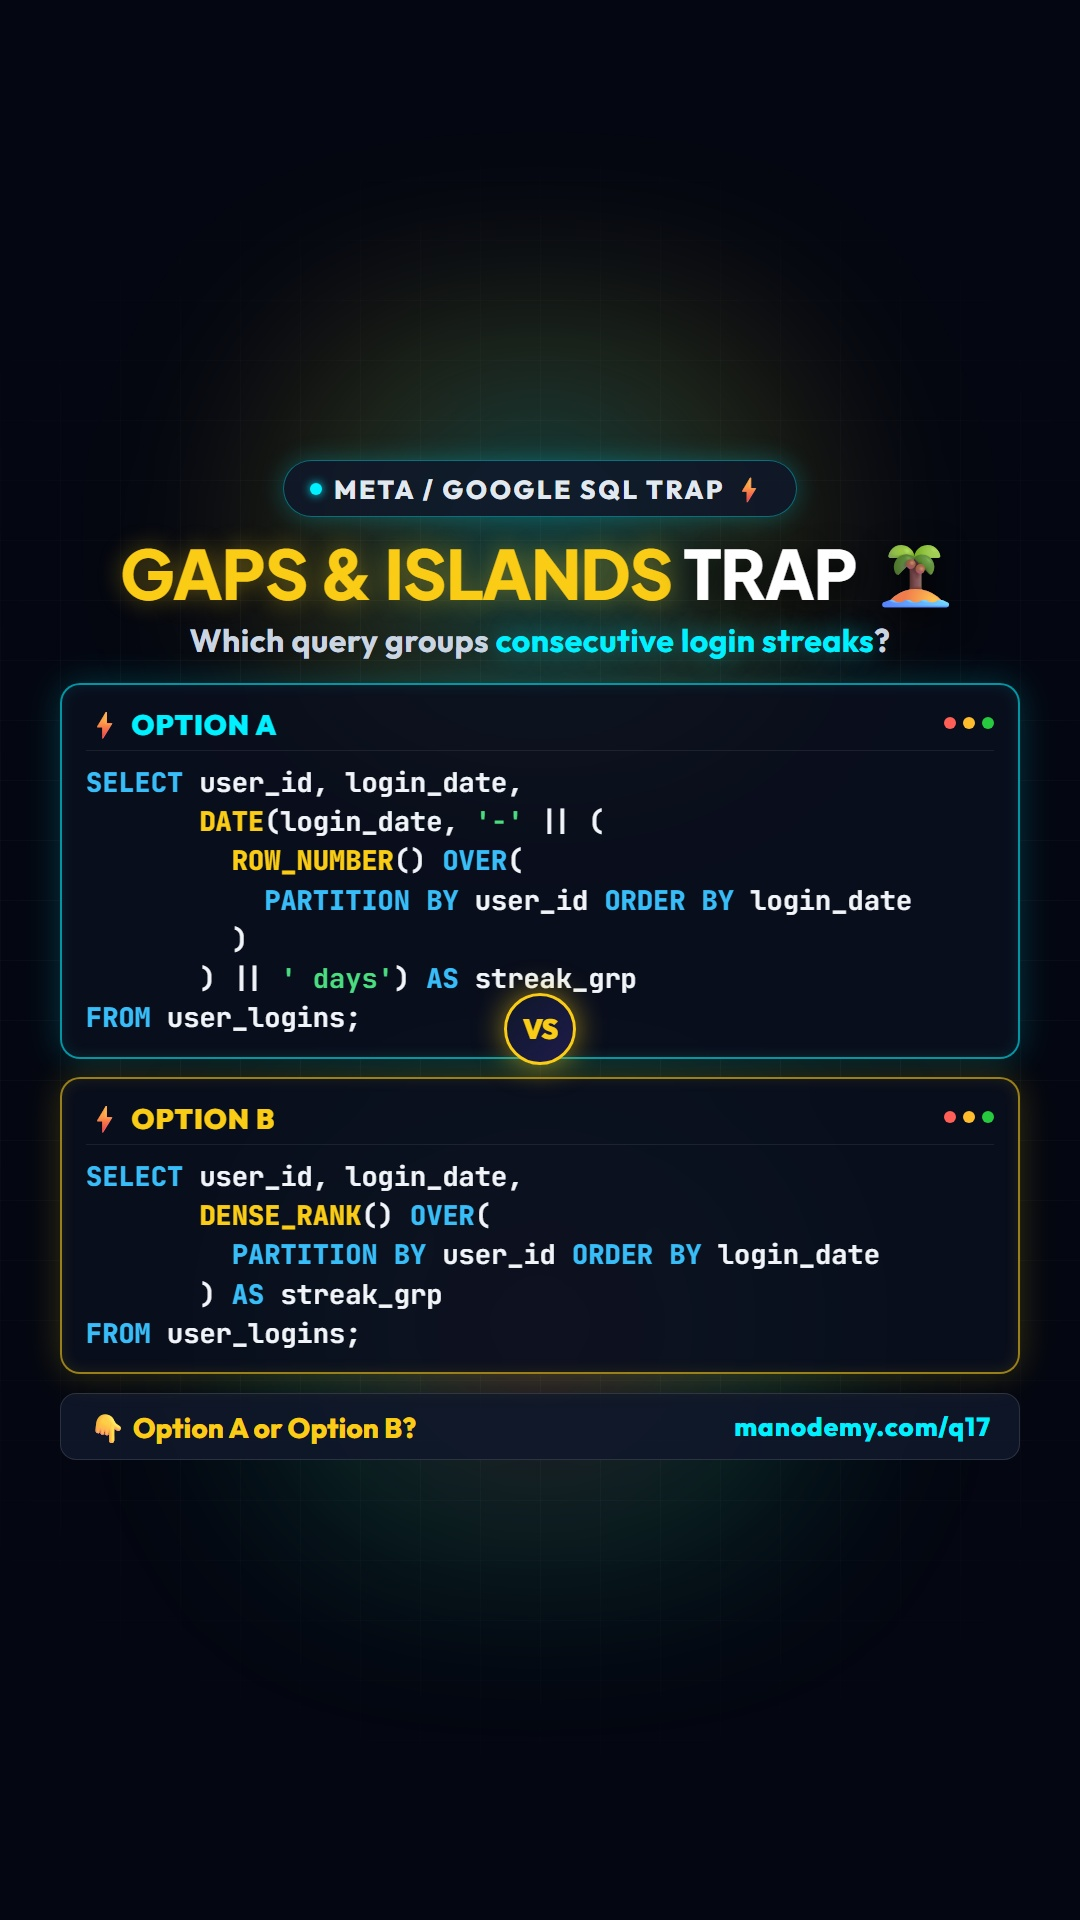
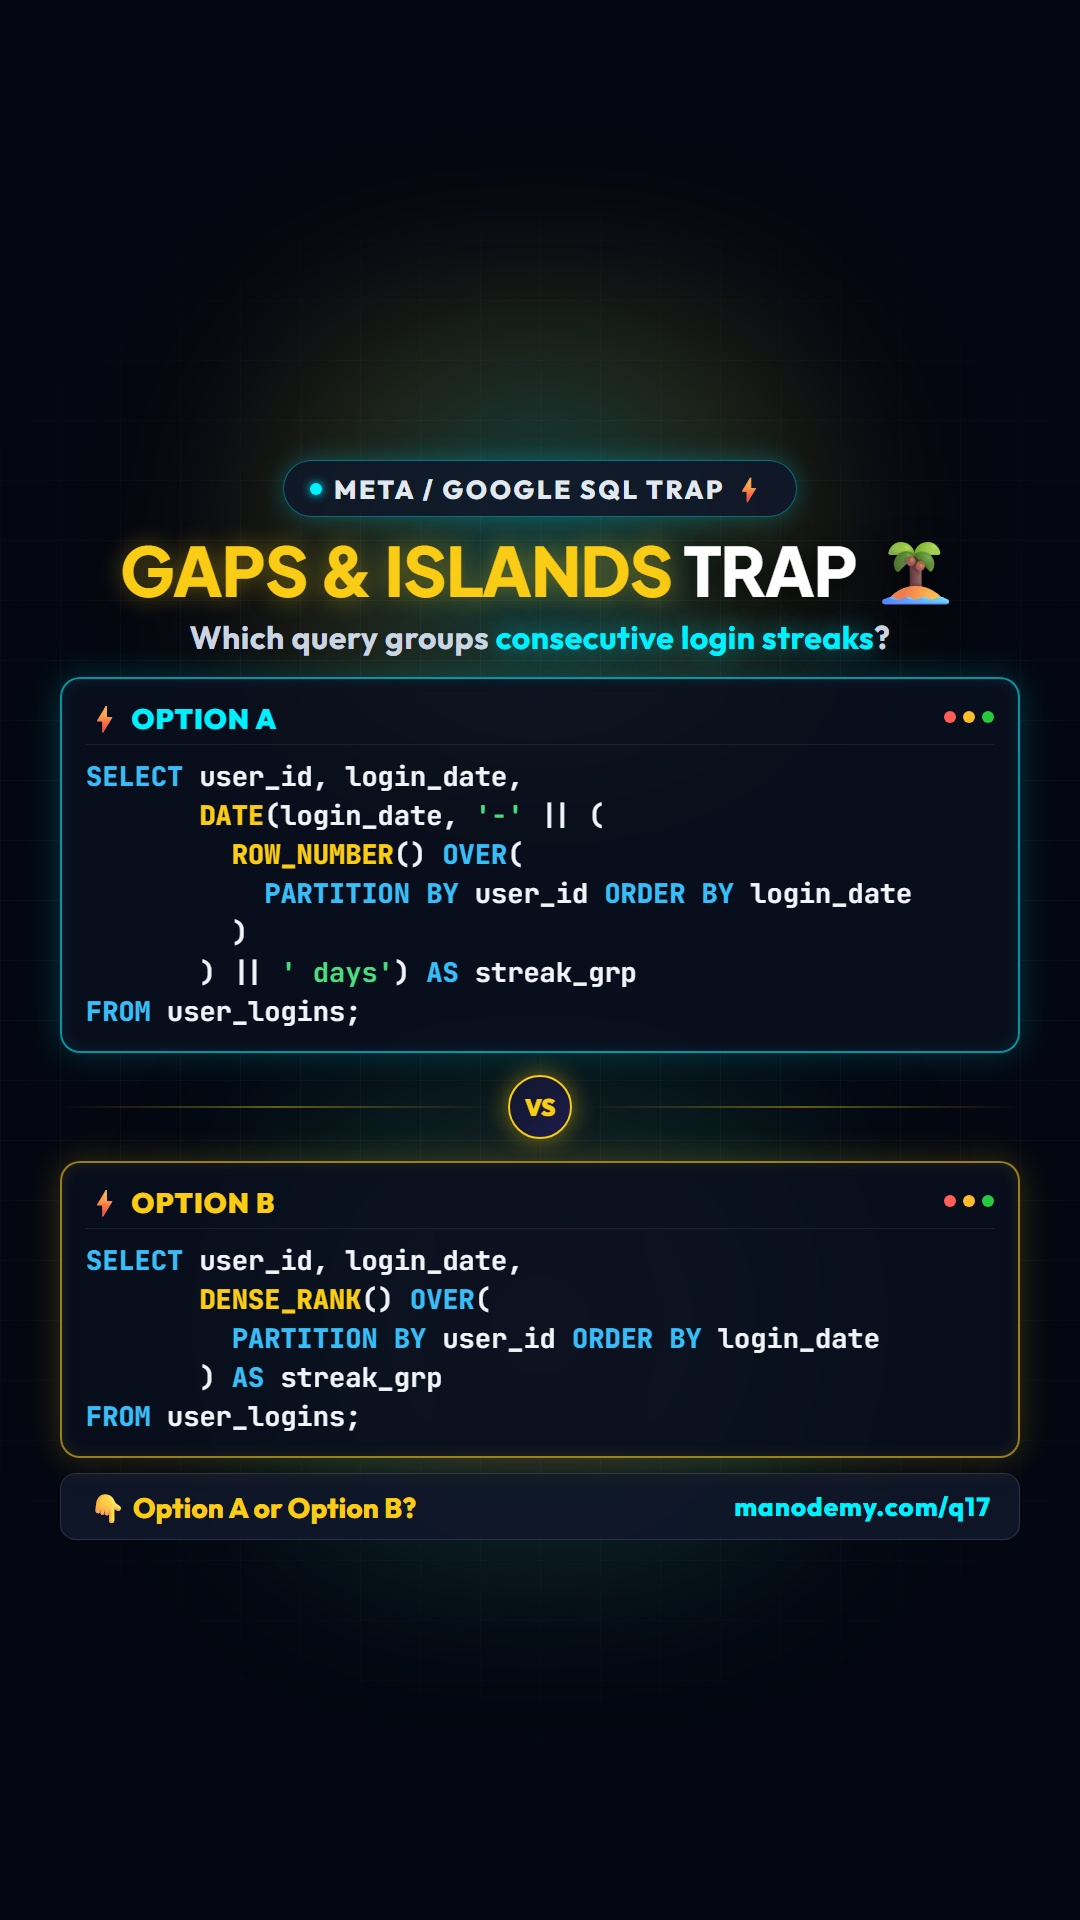
fix(marketing): center VS badge in dedicated divider row between code cards

diff --git a/marketing/generate_sample_cover.py b/marketing/generate_sample_cover.py
@@ -217,26 +217,39 @@ HTML_COVER = """<!DOCTYPE html>
   .op { color: #f43f5e; }
   .num { color: #fb923c; }
 
-  /* VS Floating Badge */
+  /* VS Floating Divider Row */
+  .vs-divider-row {
+    width: 100%;
+    display: flex;
+    align-items: center;
+    justify-content: center;
+    gap: 15px;
+    margin: 4px 0;
+    position: relative;
+    z-index: 20;
+  }
+
+  .divider-line {
+    flex: 1;
+    height: 2px;
+    background: linear-gradient(90deg, transparent, rgba(250, 204, 21, 0.4), transparent);
+  }
+
   .vs-badge {
-    position: absolute;
-    top: 50%;
-    left: 50%;
-    transform: translate(-50%, -50%);
-    width: 72px;
-    height: 72px;
+    width: 64px;
+    height: 64px;
     background: linear-gradient(135deg, #0f172a, #1e1b4b);
-    border: 3px solid #facc15;
-    box-shadow: 0 0 30px rgba(250, 204, 21, 0.6);
+    border: 2.5px solid #facc15;
+    box-shadow: 0 0 25px rgba(250, 204, 21, 0.5);
     border-radius: 50%;
     display: flex;
     align-items: center;
     justify-content: center;
-    font-size: 28px;
+    font-size: 24px;
     font-weight: 900;
     color: #facc15;
-    z-index: 20;
-    letter-spacing: -1px;
+    letter-spacing: -0.5px;
+    flex-shrink: 0;
   }
 
   /* Bottom Callout Banner */
@@ -293,7 +306,6 @@ HTML_COVER = """<!DOCTYPE html>
 
     <!-- Dual Code Cards Clash -->
     <div class="cards-grid">
-      <div class="vs-badge">VS</div>
 
       <!-- Card A -->
       <div class="code-card card-a">
@@ -312,6 +324,13 @@ HTML_COVER = """<!DOCTYPE html>
          )
        ) || <span class="str">' days'</span>) <span class="kw">AS</span> streak_grp
 <span class="kw">FROM</span> user_logins;</div>
+      </div>
+
+      <!-- VS Divider Row -->
+      <div class="vs-divider-row">
+        <div class="divider-line"></div>
+        <div class="vs-badge">VS</div>
+        <div class="divider-line"></div>
       </div>
 
       <!-- Card B -->
